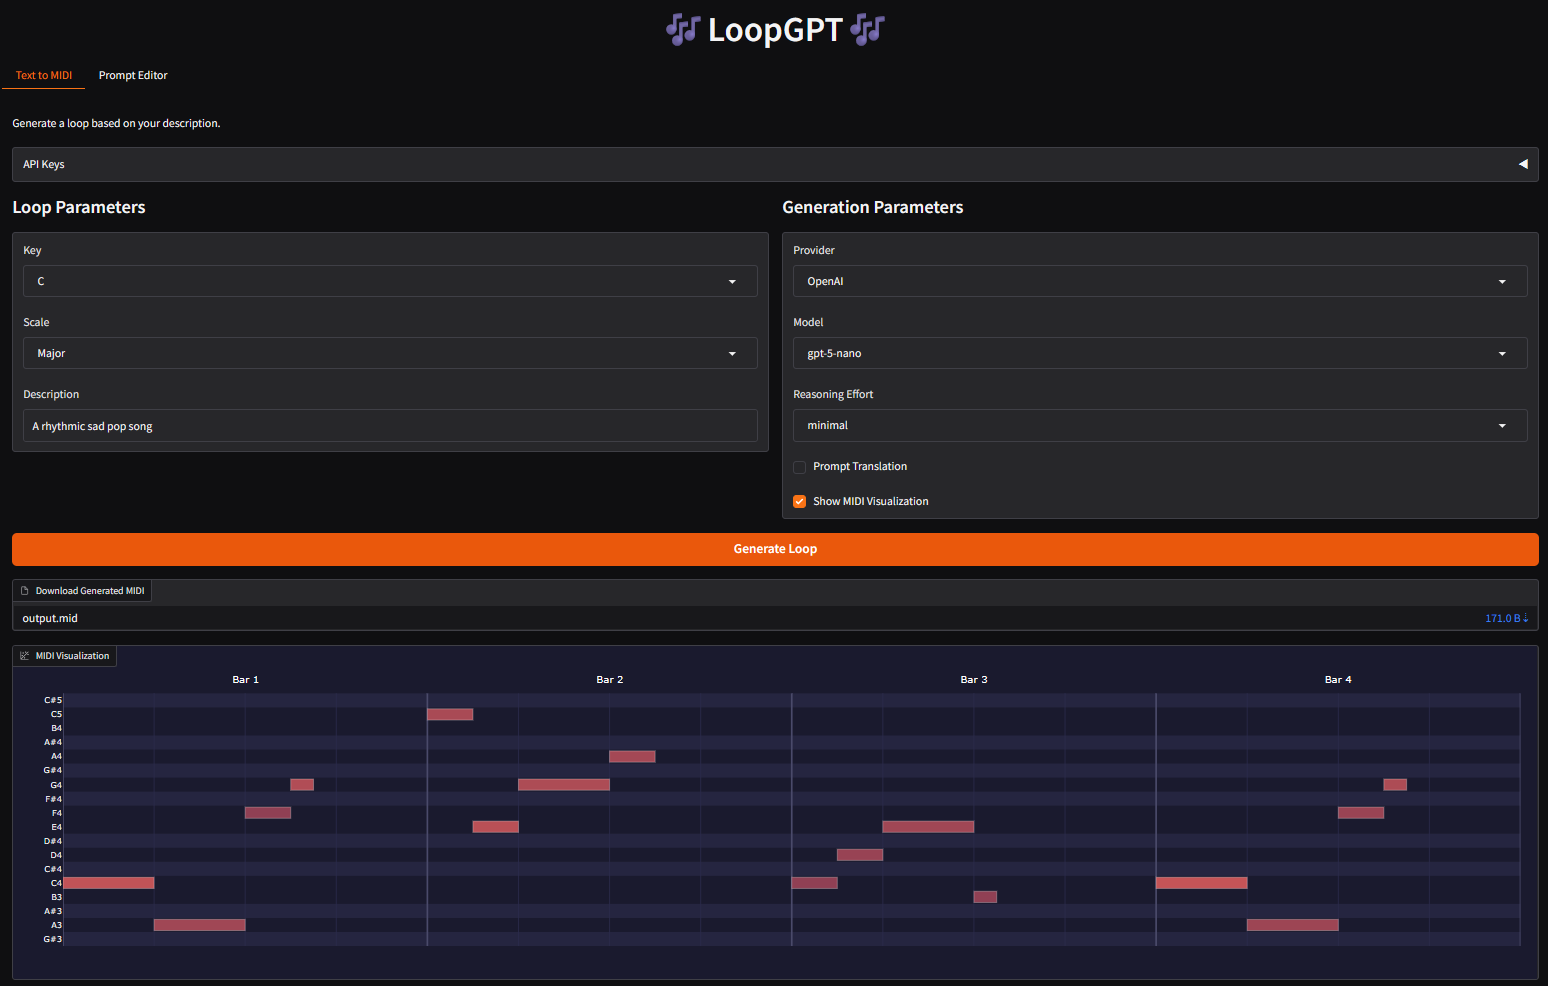
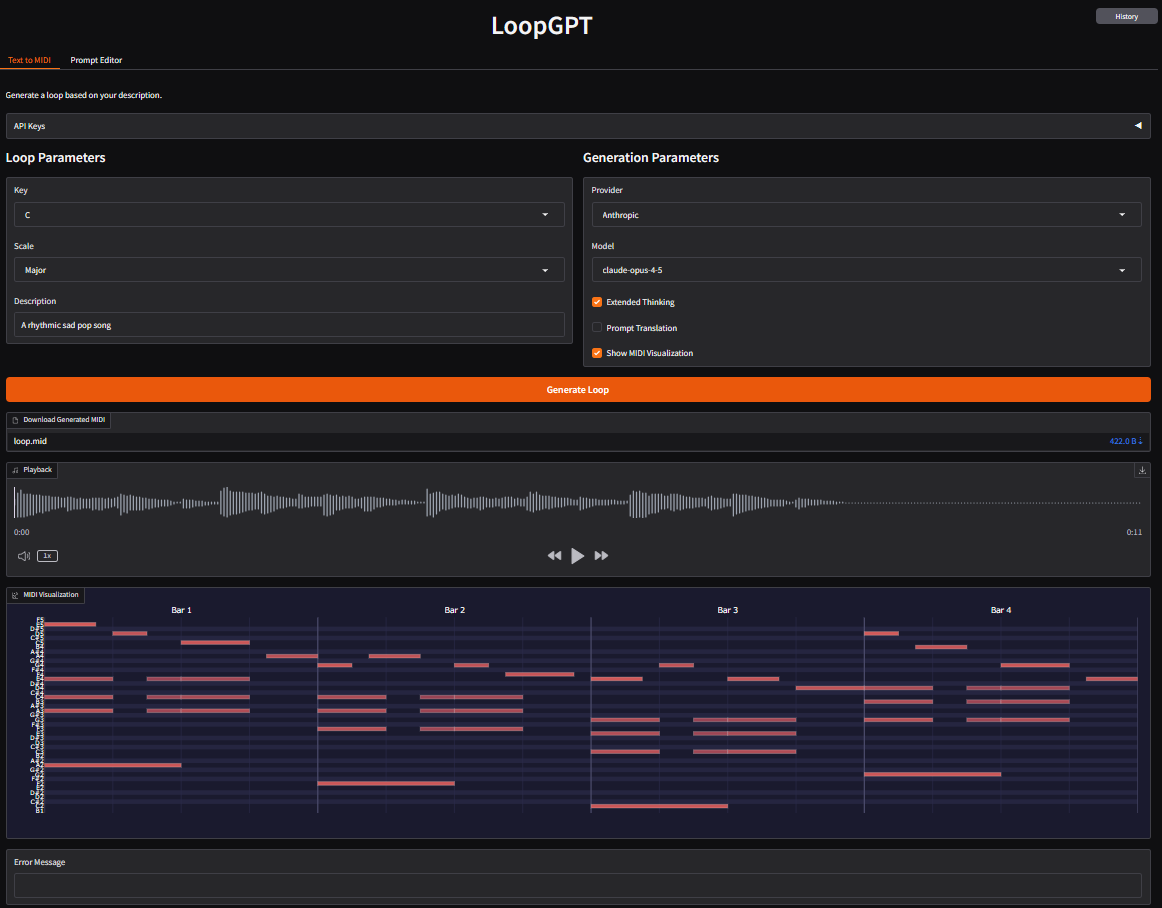
Updated Documentation

diff --git a/README.md b/README.md
@@ -8,8 +8,8 @@ This project is a music generation tool that enables users to create 4 bar loops
 
 - Interact with a sleek Gradio interface for an inviting user experience
 - Visualize MIDI output using piano roll display
-- **Audio playback** - Listen to generated MIDI with high-quality piano sound (Salamander Grand Piano)
-- **Session history** - Browse and replay your last 20 generations from the sidebar
+- Audio playback to listen to generated MIDI inside the browser
+- Manage your last 20 generations from the history sidebar
 - View/Edit the system prompts that instruct the model through the generation process
 - Generate 4-bar loops with customizable parameters
 - Optional prompt translation for guided reasoning when using language models

diff --git a/soundfonts/README.md b/soundfonts/README.md
@@ -6,9 +6,9 @@ Place your SoundFont (.sf2) files here for MIDI audio playback.
 
 **Salamander Grand Piano** - A high-quality sampled grand piano
 
-Download: https://freepats.zenvoid.org/Piano/SalamanderGrandPiano/
+Navigate to https://freepats.zenvoid.org/Piano/acoustic-grand-piano.html
 
-1. Download `SalamanderGrandPiano-SF2-V3+20200602.tar.xz`
+1. Scroll down to `Salamander Grand Piano` and Download the SF2 option.
 2. Extract the archive
 3. Copy `SalamanderGrandPiano.sf2` to this directory
 
